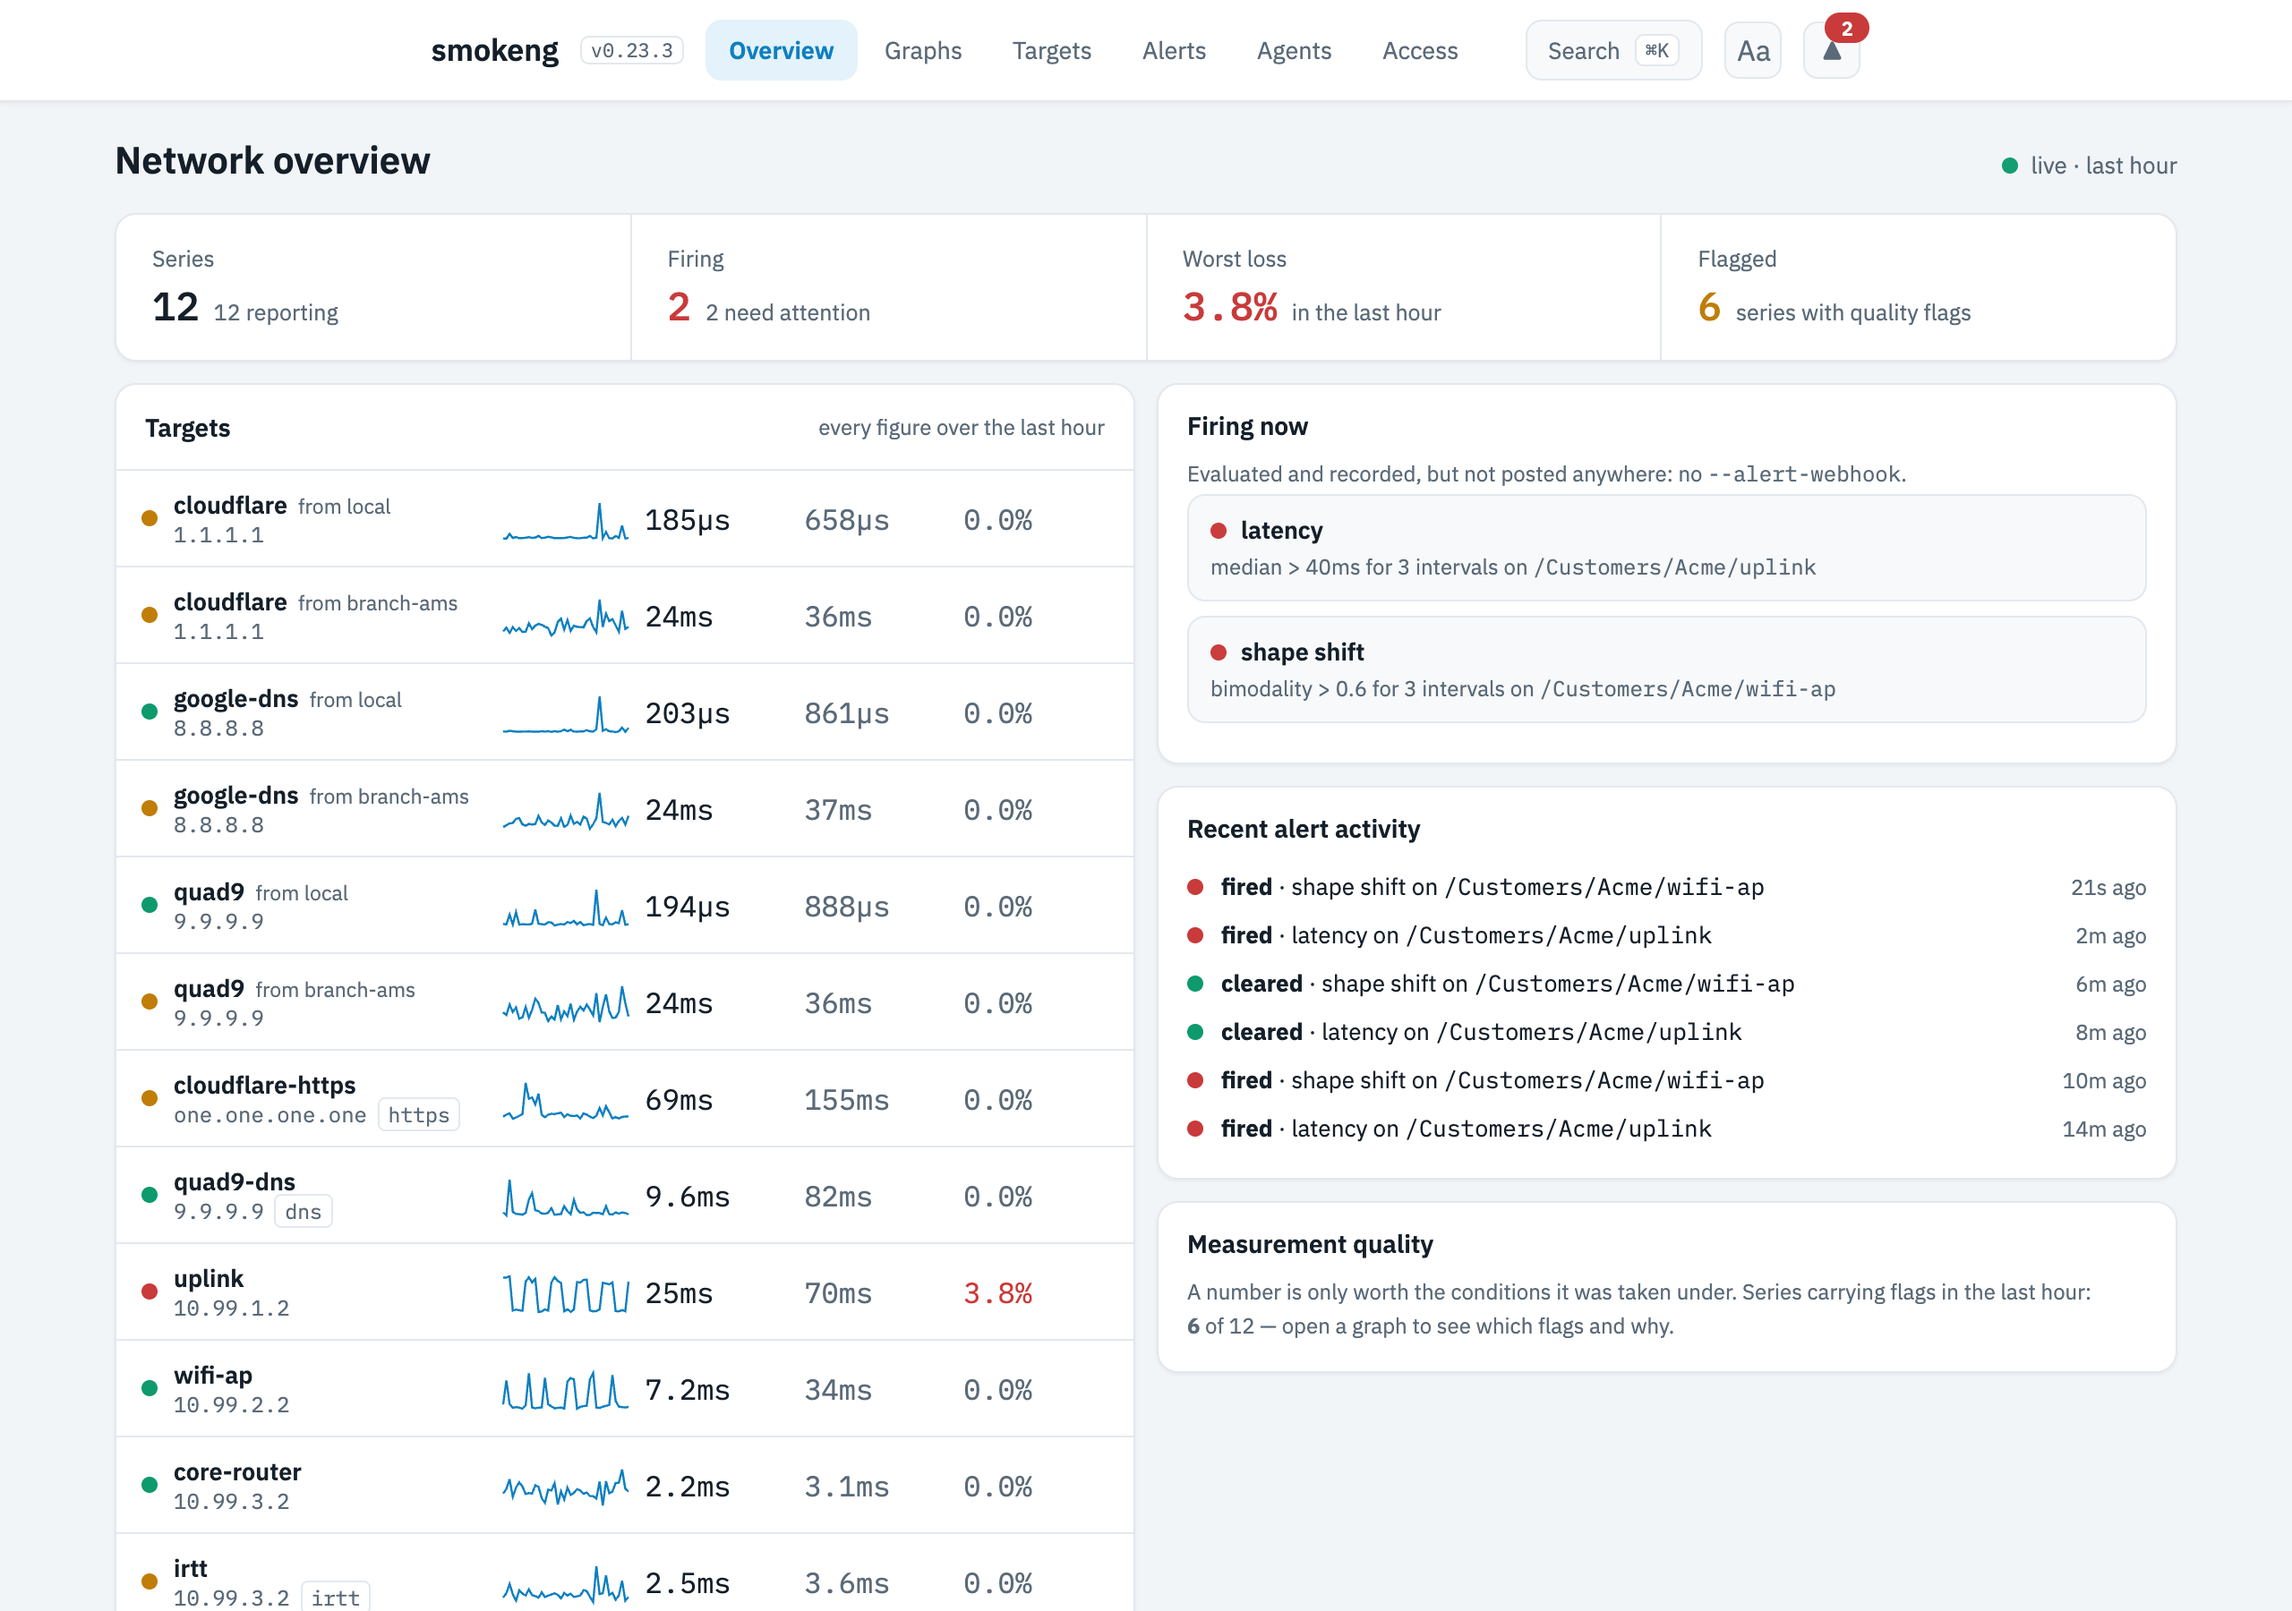
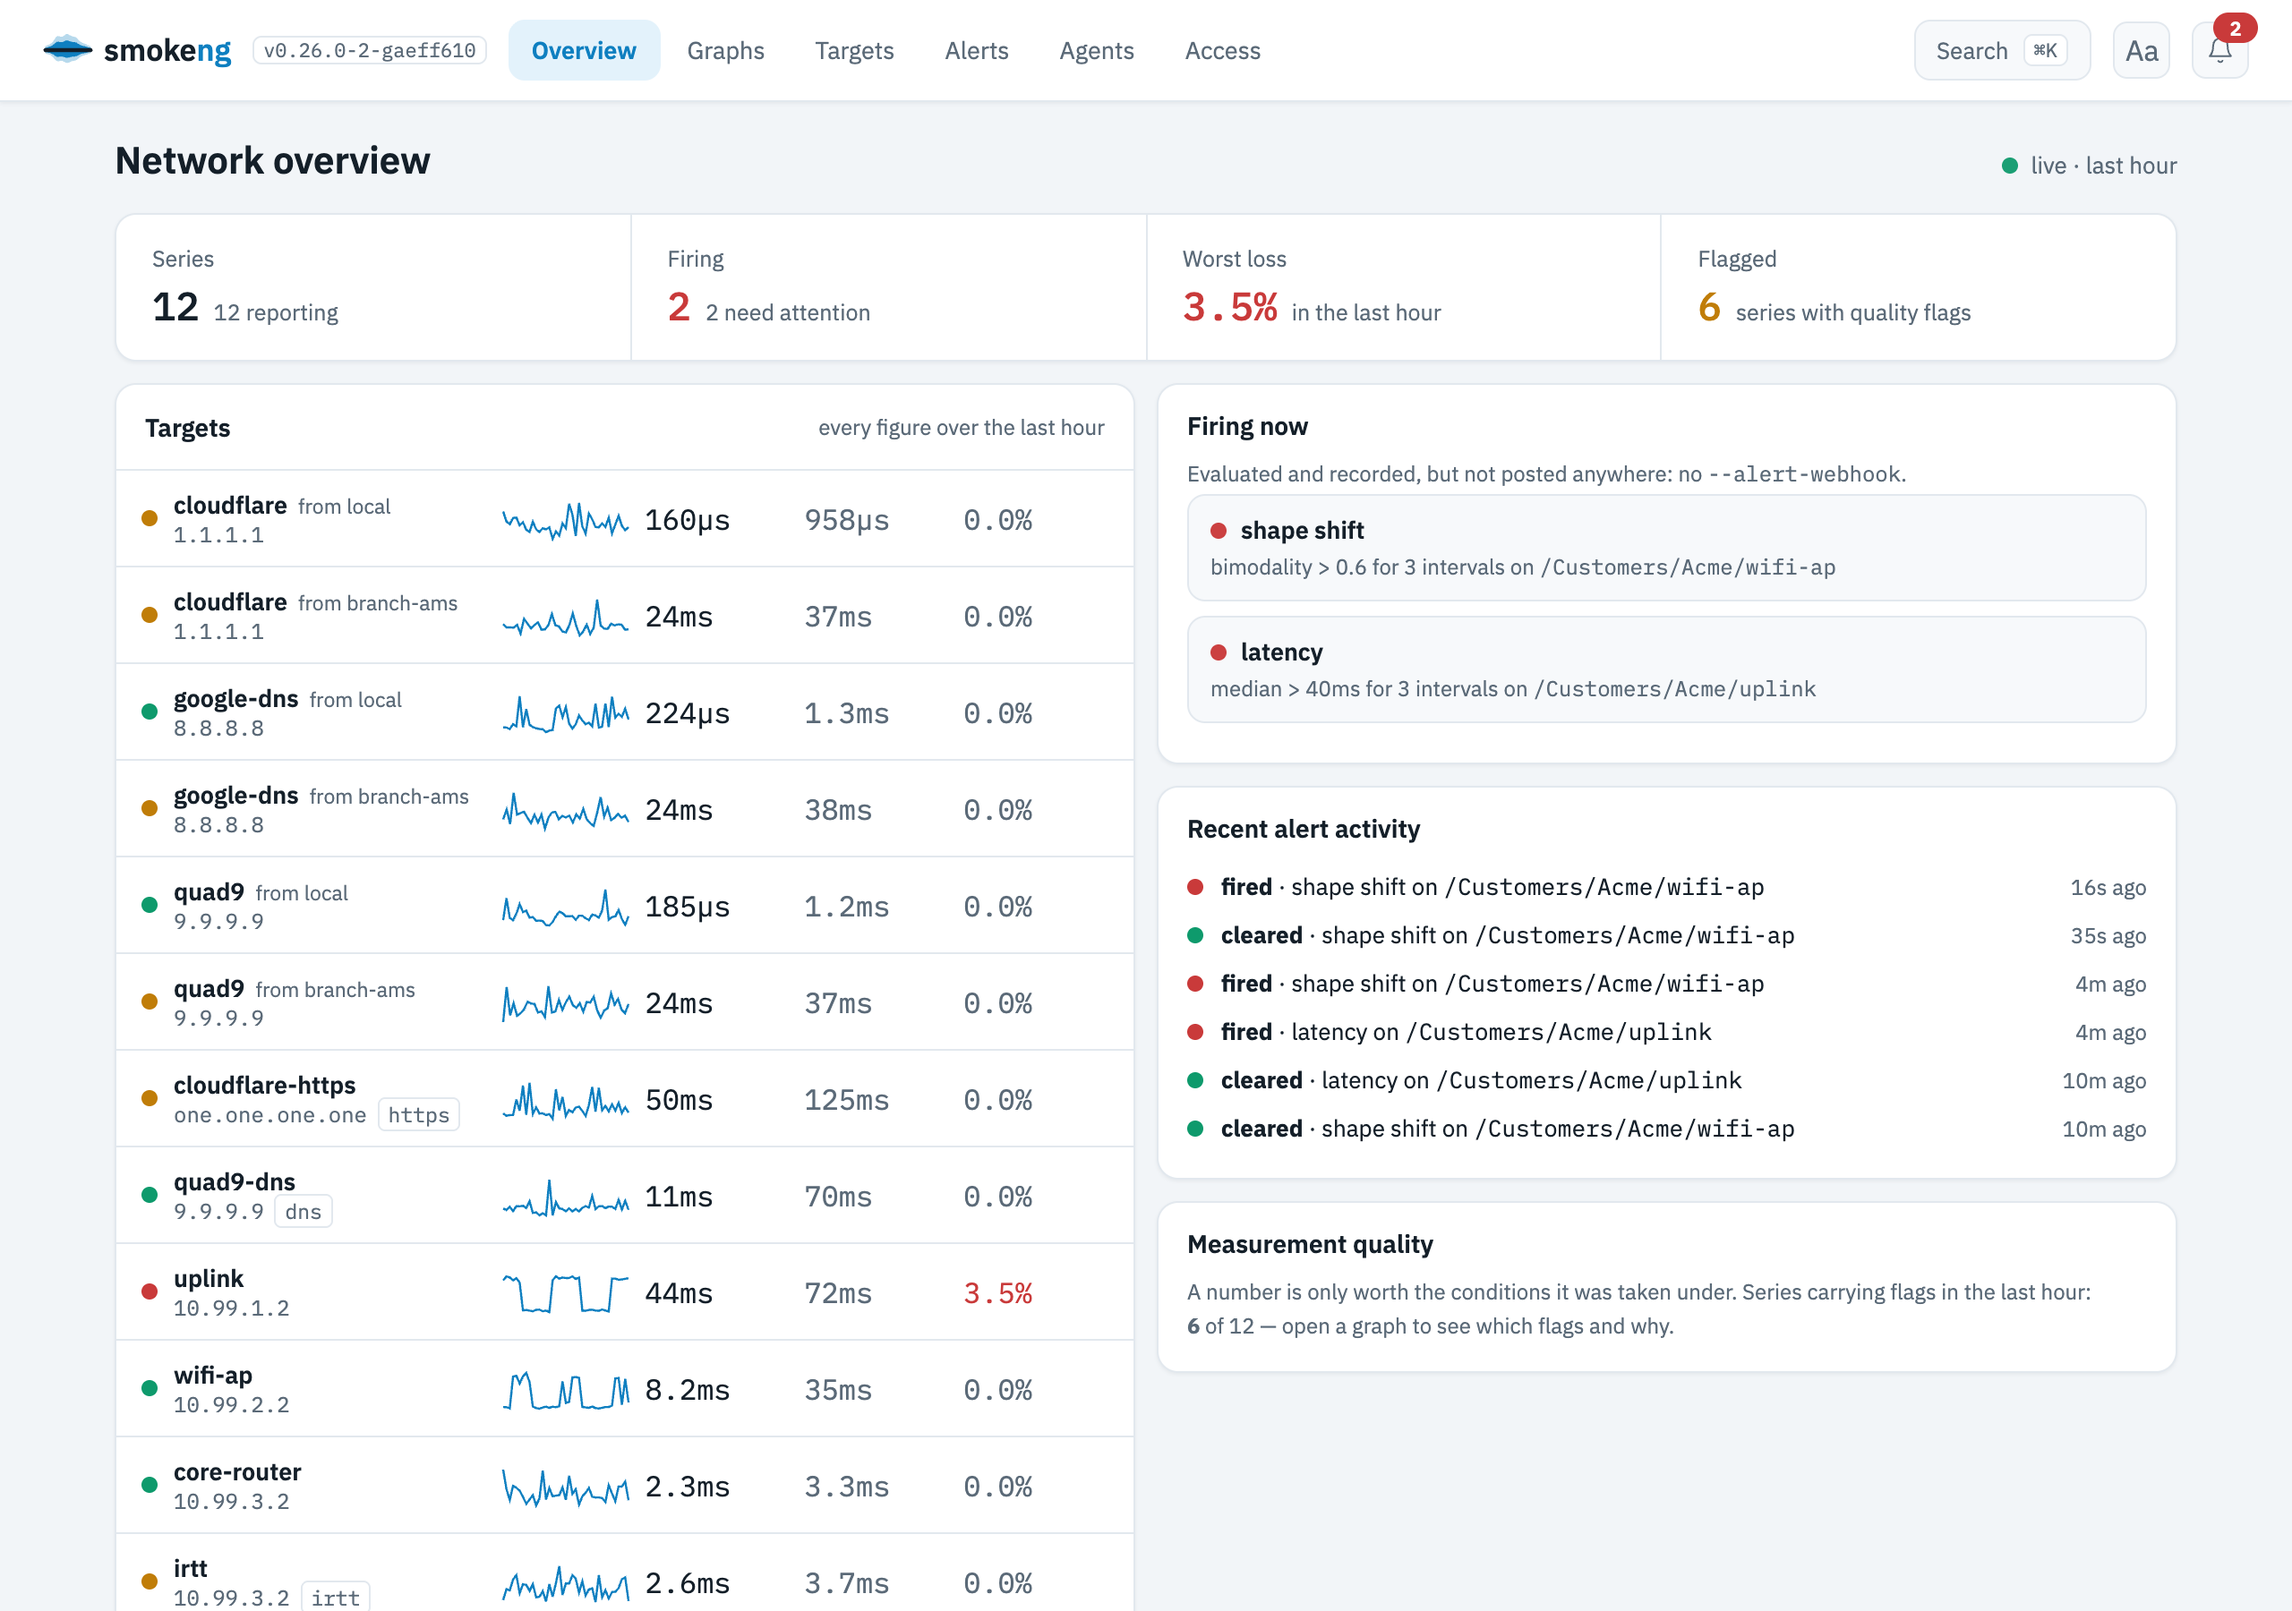
docs: retake the README screenshots and tour with the new mark
The stills and the tour showed the old header and the range buttons up
to 24h. Retaken from the same demo lab (netem namespaces, a branch
agent, the weather loop), with the ribbon and smoke·ng in the header.

diff --git a/docs/images/README.md b/docs/images/README.md
@@ -5,6 +5,7 @@ reference.
 
 | File | View | Referenced from |
 | --- | --- | --- |
+| `banner.svg` | The wordmark (`smoke` + `ng` in the accent) beside the smoke ribbon, with the tagline. The lettering is IBM Plex Sans drawn as outlines; light and dark through `prefers-color-scheme`. | `README.md` |
 | `tour.gif` | A short tour: overview, graphs, a crosshair sweep, a brush-zoom, a detail page, alerts. 960 px wide, 17 frames. | `README.md` |
 | `graphs.png` | **Graphs** — an uplink with evening congestion and loss, a wifi access point that splits into two bands, an irtt target with its userspace badges. | `README.md`, `reading-graphs.md` |
 | `overview.png` | **Overview** — the stat strip, the per-series list with sparklines, firing alerts and measurement quality. | `README.md`, `getting-started.md` |
@@ -13,7 +14,8 @@ reference.
 | `alerts.png` | **Alerts** — a firing bimodality rule and a latency rule, the rule list, silences, history. | `README.md`, `alerting.md` |
 | `targets.png` | **Targets** — the tree admin with values set on the node next to inherited ones. | `README.md` |
 
-Stills are 1280 logical pixels wide at 2× device scale, light theme; the GIF is captured at 1×.
+Stills are 1280 logical pixels wide at 2× device scale, light theme; the GIF is captured at 1×. The header shows the
+build's `git describe` version, since the shots are taken from a branch rather than a release.
 
 ## How they were made
 
